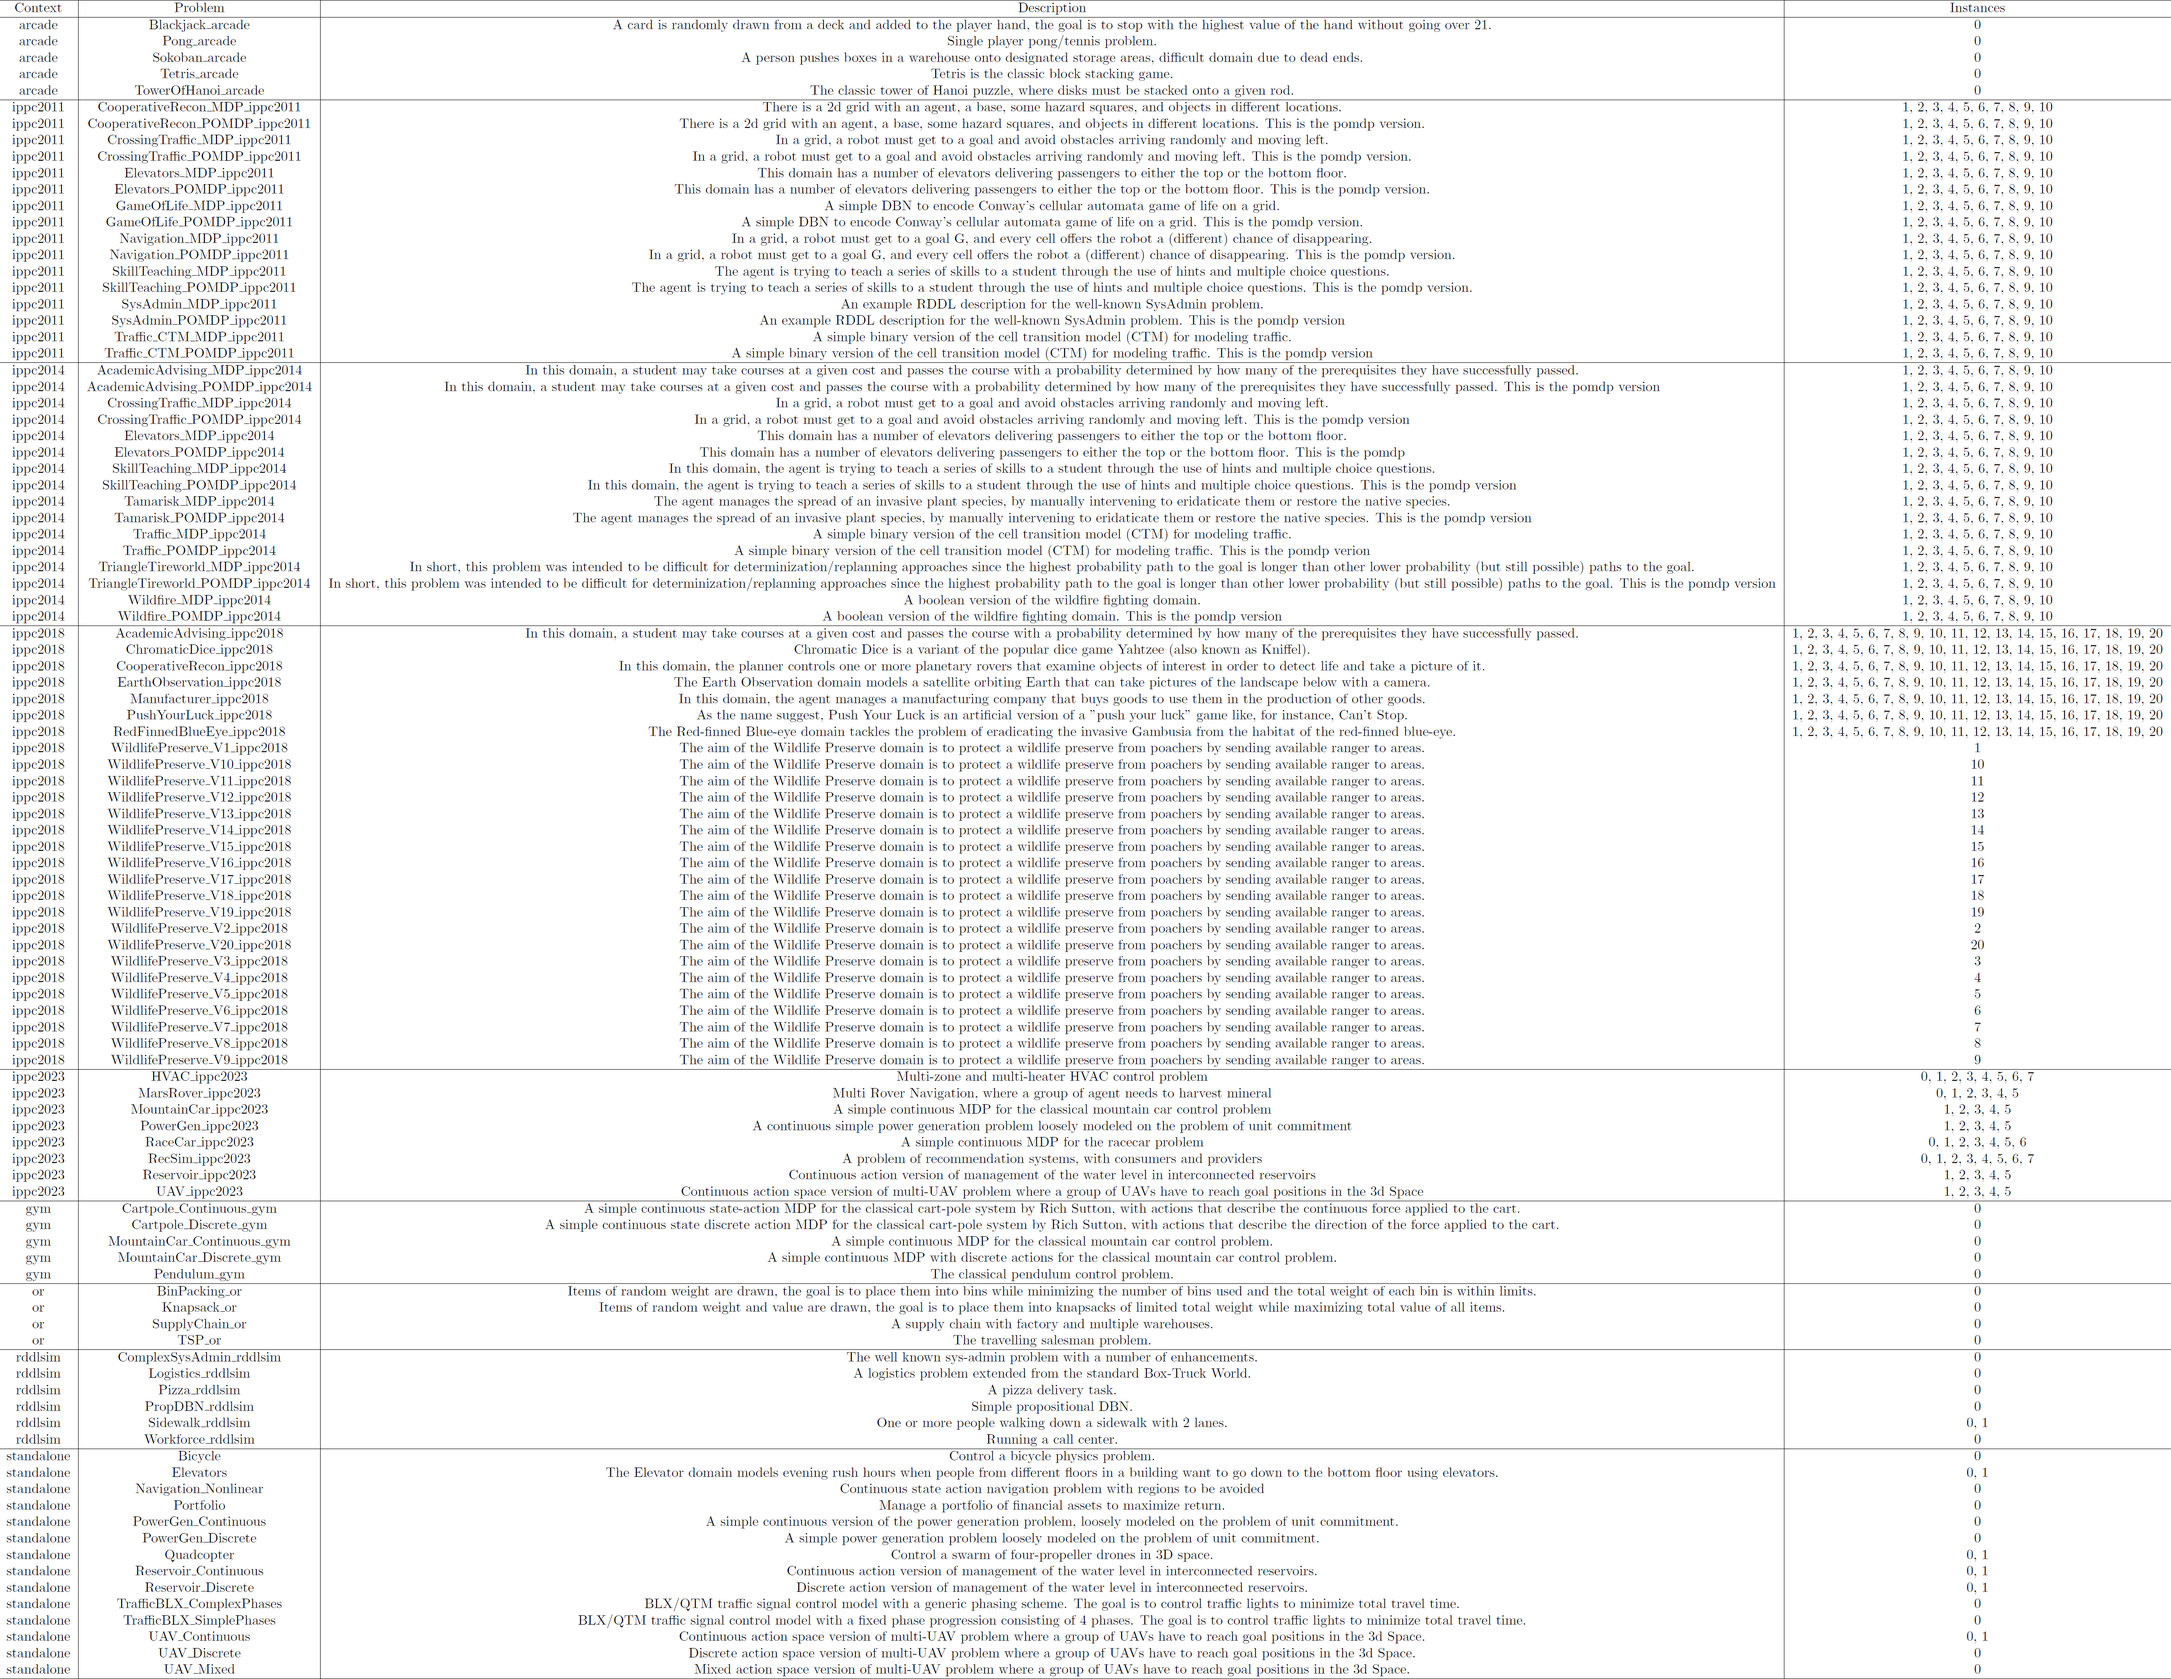
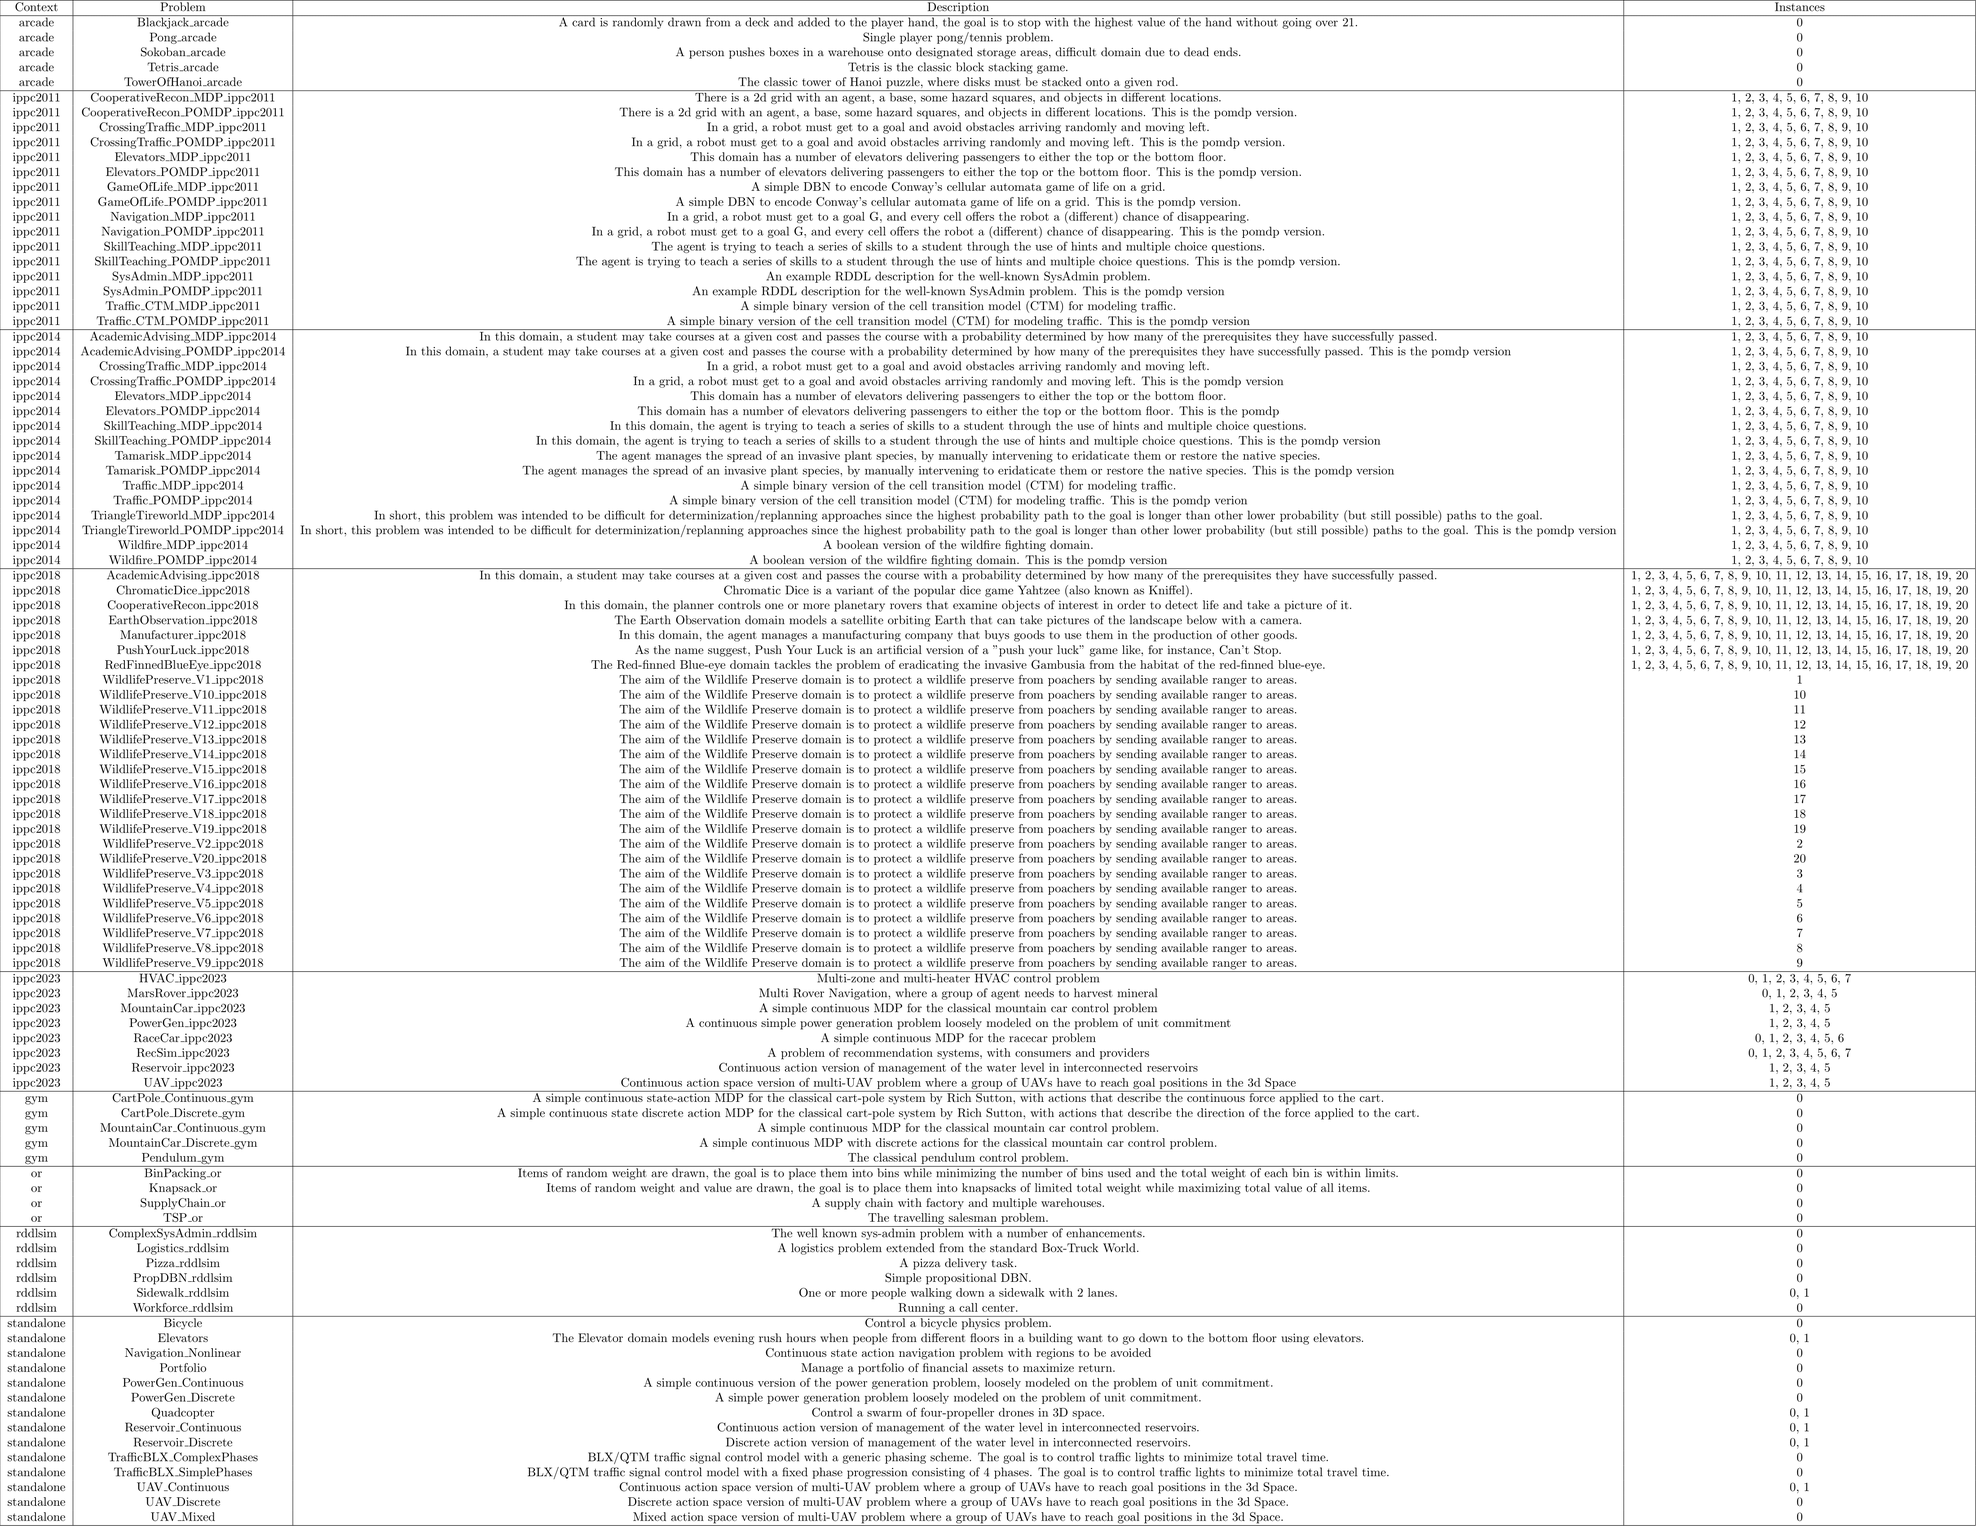
Change Cartpole to CartPole

Changed region(s): [[0.0, 0.0, 1.0, 1.0], [0.903, 0.6235, 0.9341, 0.7171], [0.2802, 0.8729, 0.3114, 0.9041]]

diff --git a/rddlrepository/archive/gym/CartPole/Discrete/__init__.py b/rddlrepository/archive/gym/CartPole/Discrete/__init__.py
@@ -1,5 +1,5 @@
 info = {
-    'name': 'Cartpole_Discrete',
+    'name': 'CartPole_Discrete',
     'description': 'A simple continuous state discrete action MDP for the classical cart-pole system by Rich Sutton, with actions that describe the direction of the force applied to the cart.',
     'context': 'gym',
     'tags': '',

diff --git a/rddlrepository/archive/gym/CartPole/Continuous/__init__.py b/rddlrepository/archive/gym/CartPole/Continuous/__init__.py
@@ -1,5 +1,5 @@
 info = {
-    'name': 'Cartpole_Continuous',
+    'name': 'CartPole_Continuous',
     'description': 'A simple continuous state-action MDP for the classical cart-pole system by Rich Sutton, with actions that describe the continuous force applied to the cart.',
     'context': 'gym',
     'tags': '',
